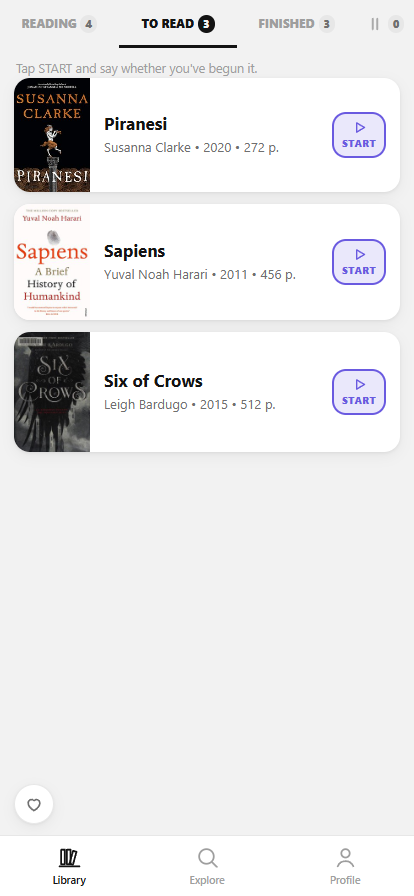
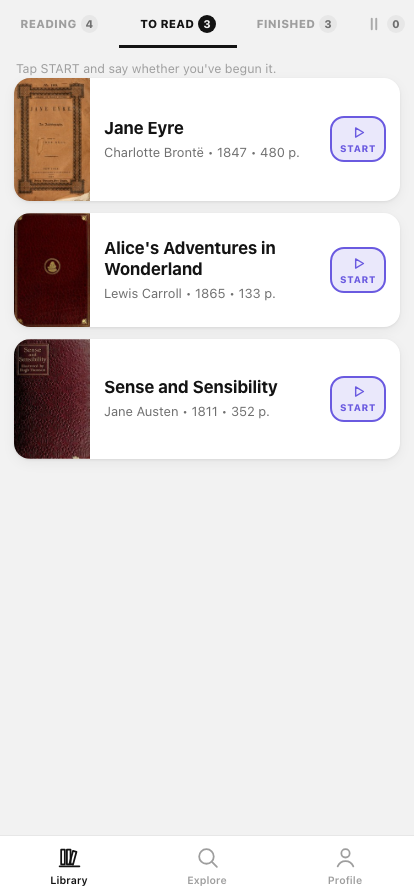
BooksTable: screenshots without publisher covers
New light/dark sets from books-table's docs/store/site (80c5ab1 on its
claude/legal-fixes branch), same file names, 414x896: period editions of
public-domain classics, with the one modern cover blurred. Alt text describes
the new images.

The data note now says the app is hosted on Vercel, which keeps request logs
with IP addresses for about an hour, and that the web app counts screen views
with Vercel Web Analytics, as the FilmTable and GamesTable pages already do.

diff --git a/products/books-table/index.html b/products/books-table/index.html
@@ -75,8 +75,8 @@
         </div>
 
         <div class="hero-visual phone">
-          <img class="shot-light" src="assets/book-light.png" width="414" height="896" alt="A book page in BooksTable showing 312 of 496 pages read, a progress bar at 63 per cent, quick +10, +25 and +50 buttons, a field for an exact page, and a Mark as finished button." />
-          <img class="shot-dark" src="assets/book-dark.png" width="414" height="896" alt="A book page in BooksTable showing 312 of 496 pages read, a progress bar at 63 per cent, quick +10, +25 and +50 buttons, a field for an exact page, and a Mark as finished button. Shown in the app's dark theme." />
+          <img class="shot-light" src="assets/book-light.png" width="414" height="896" alt="The page of The Hound of the Baskervilles in BooksTable, under the cover of an early edition: 130 of 207 pages read at 63 per cent, 77 pages left at about 1h 56m, quick +10, +25 and +50 buttons, a field for an exact page, and a Mark as finished button." />
+          <img class="shot-dark" src="assets/book-dark.png" width="414" height="896" alt="The page of The Hound of the Baskervilles in BooksTable, under the cover of an early edition: 130 of 207 pages read at 63 per cent, 77 pages left at about 1h 56m, quick +10, +25 and +50 buttons, a field for an exact page, and a Mark as finished button. Shown in the app's dark theme." />
         </div>
       </div>
     </div>
@@ -87,33 +87,33 @@
       <h2 id="look" class="section-title">What it looks like</h2>
       <div class="shots-row">
         <figure>
-          <a class="shot shot-light" href="assets/reading-light.png" target="_blank" rel="noopener" title="Open full size"><img src="assets/reading-light.png" width="414" height="896" alt="The Library screen on its Reading tab, with Continue, Not Started and Been a While sections. Each card shows the position, such as p. 312 / 496 at 63 per cent, and a +10 button. The tabs carry counts: Reading 4, To read 3, Finished 3." loading="lazy" decoding="async" /></a>
-          <a class="shot shot-dark" href="assets/reading-dark.png" target="_blank" rel="noopener" title="Open full size"><img src="assets/reading-dark.png" width="414" height="896" alt="The Library screen on its Reading tab, with Continue, Not Started and Been a While sections. Each card shows the position, such as p. 312 / 496 at 63 per cent, and a +10 button. The tabs carry counts: Reading 4, To read 3, Finished 3. Shown in the app's dark theme." loading="lazy" decoding="async" /></a>
+          <a class="shot shot-light" href="assets/reading-light.png" target="_blank" rel="noopener" title="Open full size"><img src="assets/reading-light.png" width="414" height="896" alt="The Library screen on its Reading tab, with Continue, Not Started and Been a While sections — The Hound of the Baskervilles, Adventures of Huckleberry Finn, Emma and A Tale of Two Cities. Each card shows the position, such as p. 130 / 207 at 63 per cent, and a +10 button. The tabs carry counts: Reading 4, To read 3, Finished 3." loading="lazy" decoding="async" /></a>
+          <a class="shot shot-dark" href="assets/reading-dark.png" target="_blank" rel="noopener" title="Open full size"><img src="assets/reading-dark.png" width="414" height="896" alt="The Library screen on its Reading tab, with Continue, Not Started and Been a While sections — The Hound of the Baskervilles, Adventures of Huckleberry Finn, Emma and A Tale of Two Cities. Each card shows the position, such as p. 130 / 207 at 63 per cent, and a +10 button. The tabs carry counts: Reading 4, To read 3, Finished 3. Shown in the app's dark theme." loading="lazy" decoding="async" /></a>
           <figcaption>Reading — where you are in each book, and one tap to move</figcaption>
         </figure>
         <figure>
-          <a class="shot shot-light" href="assets/shelf-light.png" target="_blank" rel="noopener" title="Open full size"><img src="assets/shelf-light.png" width="414" height="896" alt="The To read tab listing Piranesi, Sapiens and Six of Crows, each with a START button, under four tabs carrying their counts." loading="lazy" decoding="async" /></a>
-          <a class="shot shot-dark" href="assets/shelf-dark.png" target="_blank" rel="noopener" title="Open full size"><img src="assets/shelf-dark.png" width="414" height="896" alt="The To read tab listing Piranesi, Sapiens and Six of Crows, each with a START button, under four tabs carrying their counts. Shown in the app's dark theme." loading="lazy" decoding="async" /></a>
+          <a class="shot shot-light" href="assets/shelf-light.png" target="_blank" rel="noopener" title="Open full size"><img src="assets/shelf-light.png" width="414" height="896" alt="The To read tab listing Jane Eyre, Alice's Adventures in Wonderland and Sense and Sensibility, each with a START button, under four tabs carrying their counts." loading="lazy" decoding="async" /></a>
+          <a class="shot shot-dark" href="assets/shelf-dark.png" target="_blank" rel="noopener" title="Open full size"><img src="assets/shelf-dark.png" width="414" height="896" alt="The To read tab listing Jane Eyre, Alice's Adventures in Wonderland and Sense and Sensibility, each with a START button, under four tabs carrying their counts. Shown in the app's dark theme." loading="lazy" decoding="async" /></a>
           <figcaption>One library, four tabs, each saying how big its pile is</figcaption>
         </figure>
         <figure>
-          <a class="shot shot-light" href="assets/choice-light.png" target="_blank" rel="noopener" title="Open full size"><img src="assets/choice-light.png" width="414" height="896" alt="A sheet asking “Where should this one go?” for Piranesi, offering “I'm reading it now — moves to the Reading tab, where a tap logs the pages” and “I've already read it — straight to the Finished tab”." loading="lazy" decoding="async" /></a>
-          <a class="shot shot-dark" href="assets/choice-dark.png" target="_blank" rel="noopener" title="Open full size"><img src="assets/choice-dark.png" width="414" height="896" alt="A sheet asking “Where should this one go?” for Piranesi, offering “I'm reading it now — moves to the Reading tab, where a tap logs the pages” and “I've already read it — straight to the Finished tab”. Shown in the app's dark theme." loading="lazy" decoding="async" /></a>
+          <a class="shot shot-light" href="assets/choice-light.png" target="_blank" rel="noopener" title="Open full size"><img src="assets/choice-light.png" width="414" height="896" alt="A sheet asking “Where should this one go?” for Jane Eyre, offering “I'm reading it now — moves to the Reading tab, where a tap logs the pages” and “I've already read it — straight to the Finished tab”." loading="lazy" decoding="async" /></a>
+          <a class="shot shot-dark" href="assets/choice-dark.png" target="_blank" rel="noopener" title="Open full size"><img src="assets/choice-dark.png" width="414" height="896" alt="A sheet asking “Where should this one go?” for Jane Eyre, offering “I'm reading it now — moves to the Reading tab, where a tap logs the pages” and “I've already read it — straight to the Finished tab”. Shown in the app's dark theme." loading="lazy" decoding="async" /></a>
           <figcaption>START asks what happened — then switches to the tab it moved to</figcaption>
         </figure>
         <figure>
-          <a class="shot shot-light" href="assets/explore-light.png" target="_blank" rel="noopener" title="Open full size"><img src="assets/explore-light.png" width="414" height="896" alt="A For you list where each suggestion carries a line explaining it, such as “More by Andy Weir” or “More in Science Fiction”." loading="lazy" decoding="async" /></a>
-          <a class="shot shot-dark" href="assets/explore-dark.png" target="_blank" rel="noopener" title="Open full size"><img src="assets/explore-dark.png" width="414" height="896" alt="A For you list where each suggestion carries a line explaining it, such as “More by Andy Weir” or “More in Science Fiction”. Shown in the app's dark theme." loading="lazy" decoding="async" /></a>
+          <a class="shot shot-light" href="assets/explore-light.png" target="_blank" rel="noopener" title="Open full size"><img src="assets/explore-light.png" width="414" height="896" alt="A For you list where each suggestion carries a line explaining it, such as “More by Arthur Conan Doyle” or “More in Classics”; the covers are blurred." loading="lazy" decoding="async" /></a>
+          <a class="shot shot-dark" href="assets/explore-dark.png" target="_blank" rel="noopener" title="Open full size"><img src="assets/explore-dark.png" width="414" height="896" alt="A For you list where each suggestion carries a line explaining it, such as “More by Arthur Conan Doyle” or “More in Classics”; the covers are blurred. Shown in the app's dark theme." loading="lazy" decoding="async" /></a>
           <figcaption>For you — built from your shelves, and it says why</figcaption>
         </figure>
         <figure>
-          <a class="shot shot-light" href="assets/search-light.png" target="_blank" rel="noopener" title="Open full size"><img src="assets/search-light.png" width="414" height="896" alt="Search results for “ursula k. le guin” with the AUTHOR scope selected, listing The Dispossessed, The Left Hand of Darkness and A Wizard of Earthsea with covers, years, page counts and ratings." loading="lazy" decoding="async" /></a>
-          <a class="shot shot-dark" href="assets/search-dark.png" target="_blank" rel="noopener" title="Open full size"><img src="assets/search-dark.png" width="414" height="896" alt="Search results for “ursula k. le guin” with the AUTHOR scope selected, listing The Dispossessed, The Left Hand of Darkness and A Wizard of Earthsea with covers, years, page counts and ratings. Shown in the app's dark theme." loading="lazy" decoding="async" /></a>
+          <a class="shot shot-light" href="assets/search-light.png" target="_blank" rel="noopener" title="Open full size"><img src="assets/search-light.png" width="414" height="896" alt="Search results for “lewis carroll” with the AUTHOR scope selected, listing Alice's Adventures in Wonderland — already on the shelf — Through the Looking-Glass and The Hunting of the Snark with covers, years, page counts and ratings." loading="lazy" decoding="async" /></a>
+          <a class="shot shot-dark" href="assets/search-dark.png" target="_blank" rel="noopener" title="Open full size"><img src="assets/search-dark.png" width="414" height="896" alt="Search results for “lewis carroll” with the AUTHOR scope selected, listing Alice's Adventures in Wonderland — already on the shelf — Through the Looking-Glass and The Hunting of the Snark with covers, years, page counts and ratings. Shown in the app's dark theme." loading="lazy" decoding="async" /></a>
           <figcaption>Search — scoped to all, title or author</figcaption>
         </figure>
         <figure>
-          <a class="shot shot-light" href="assets/profile-light.png" target="_blank" rel="noopener" title="Open full size"><img src="assets/profile-light.png" width="414" height="896" alt="The Profile tab showing 1793 pages, 44 hours 50 minutes of reading time, 3 finished and 4 in progress, above shelves of covers grouped by status." loading="lazy" decoding="async" /></a>
-          <a class="shot shot-dark" href="assets/profile-dark.png" target="_blank" rel="noopener" title="Open full size"><img src="assets/profile-dark.png" width="414" height="896" alt="The Profile tab showing 1793 pages, 44 hours 50 minutes of reading time, 3 finished and 4 in progress, above shelves of covers grouped by status. Shown in the app's dark theme." loading="lazy" decoding="async" /></a>
+          <a class="shot shot-light" href="assets/profile-light.png" target="_blank" rel="noopener" title="Open full size"><img src="assets/profile-light.png" width="414" height="896" alt="The Profile tab showing 1236 pages, 30 hours 54 minutes of reading time, 3 finished and 4 in progress, above shelves of covers grouped by status." loading="lazy" decoding="async" /></a>
+          <a class="shot shot-dark" href="assets/profile-dark.png" target="_blank" rel="noopener" title="Open full size"><img src="assets/profile-dark.png" width="414" height="896" alt="The Profile tab showing 1236 pages, 30 hours 54 minutes of reading time, 3 finished and 4 in progress, above shelves of covers grouped by status. Shown in the app's dark theme." loading="lazy" decoding="async" /></a>
           <figcaption>Profile — pages, hours, and the year added up</figcaption>
         </figure>
       </div>
@@ -172,6 +172,10 @@
         <a href="https://openlibrary.org" target="_blank" rel="noopener">Open Library</a>,
         a project of the Internet Archive. It needs no key and allows browser requests
         directly, which is why this app has no server component at all — not even a proxy.
+        The app itself is hosted on Vercel, which keeps a log of the requests it serves, your
+        IP address among them, for about an hour, and the web app counts screen views with
+        Vercel Web Analytics — no cookies, only which screen was opened, never a title or a
+        search.
       </p>
     </section>
 
